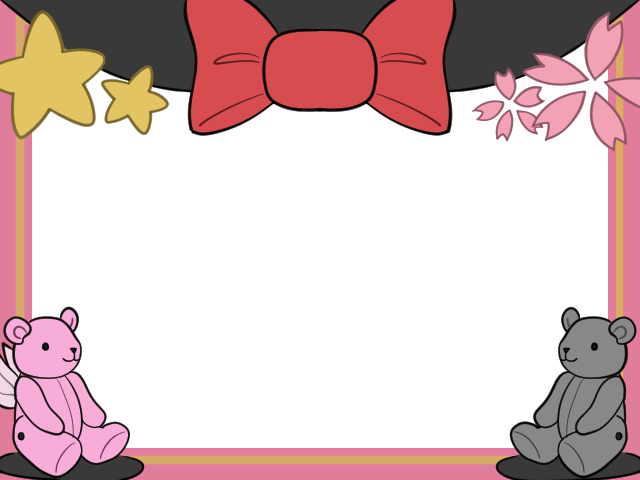
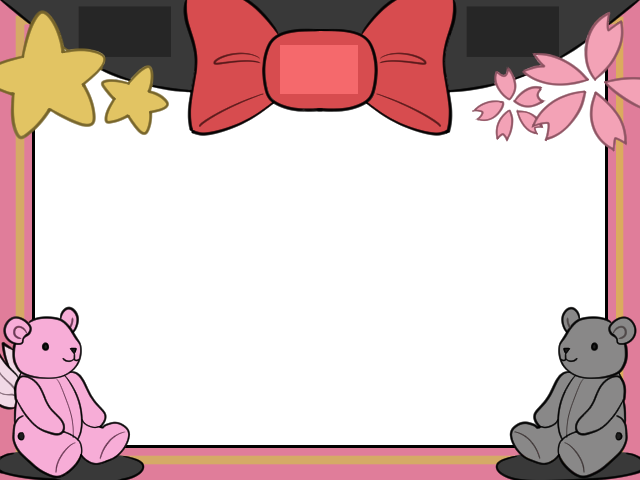
Mostly aesthetic changes for Play scene

diff --git a/src/scenes/Play.js b/src/scenes/Play.js
@@ -5,30 +5,31 @@ class Play extends Phaser.Scene{
     }
 
     preload() {
-        this.load.image('starfield', 'assets/starfield.png');
-        this.load.image('ship', 'assets/spaceship.png');
+        this.load.image('Watery', 'assets/Watery.png');
         this.load.image('rocket', 'assets/rocket.png');
         this.load.spritesheet('explosion', 'assets/explosion.png', {frameWidth:64, frameHeight:32,
             startFrame:0, endFrame:9});
         this.load.image('foregroundUI', 'assets/frame.png');
+        this.load.image('BG1', 'assets/BG_Layer1.png');
+        this.load.image('BG2', 'assets/BG_Layer2.png');
+        this.load.image('KingPengy', 'assets/playground.png');
     }
 
     create() {
-        // Starfield BG
-        this.starfield = this.add.tileSprite(0,0,640,480, 'starfield').setOrigin(0,0);
+        // Parallax BG Layers
+        this.trees = this.add.tileSprite(0,0,640,480, 'BG1').setOrigin(0,0);
+        this.kingPengy = this.add.tileSprite(0,0,640,480, 'KingPengy').setOrigin(0,0);
+        this.foreground = this.add.tileSprite(0,0,640,480, 'BG2').setOrigin(0,0);
 
         //Rocket + Ships
         this.p1Rocket = new Rocket(this, game.config.width/2,
             game.config.height - borderUISize - borderPadding, 'rocket').setOrigin(0.5, 0);
-        this.ship1 = new Ship(this, 200, 160, 'ship', 0, 30).setOrigin(0, 0);
+        this.ship1 = new Card(this, 200, 160, 'Watery', 0, 30).setOrigin(0, 0);
             this.ship1.setScale(0.9);
-        this.ship2 = new Ship(this, 300, 210, 'ship', 0, 20).setOrigin(0, 0);
+        this.ship2 = new Card(this, 300, 210, 'Watery', 0, 20).setOrigin(0, 0);
             this.ship2.setScale(0.9);
-        this.ship3 = new Ship(this, 400, 250, 'ship', 0, 10).setOrigin(0, 0);
+        this.ship3 = new Card(this, 400, 250, 'Watery', 0, 10).setOrigin(0, 0);
             this.ship3.setScale(0.9);
-
-        this.fancyship = new NewShip(this, 300, 160, 'ship', 0, 50).setOrigin(0, 0);
-            this.fancyship.setScale(0.9);
 
         let border = this.add.image(0, 0, 'foregroundUI').setOrigin(0,0);
 
@@ -73,7 +74,9 @@ class Play extends Phaser.Scene{
     }
 
     update() {
-        this.starfield.tilePositionX -= 4;
+        this.foreground.tilePositionX -= 2.5;
+        this.trees.tilePositionX -= 0.25;
+        this.kingPengy.tilePositionX -= 0.5;
 
         // check key input for restart
         if (this.gameOver && Phaser.Input.Keyboard.JustDown(keyR)) {
@@ -88,7 +91,6 @@ class Play extends Phaser.Scene{
             this.ship1.update();
             this.ship2.update();
             this.ship3.update();
-            this.fancyship.update();
         }
 
         // Checks for collisions

diff --git a/index.html b/index.html
@@ -6,7 +6,7 @@
     <meta name="viewport" content="width=device-width, initial-scale=1.0">
     <title>Rocket Patrol Remake + Mods</title>
     <script src="lib/phaser.js"> </script>
-    <script src="src/prefabs/Ship.js"> </script>
+    <script src="src/prefabs/Card.js"> </script>
     <script src="src/prefabs/NewShip.js"> </script>
     <script src="src/prefabs/Rocket.js"> </script>
     <script src="src/scenes/Menu.js"> </script>

diff --git a/src/prefabs/Card.js b/src/prefabs/Card.js
@@ -1,4 +1,4 @@
-class Ship extends Phaser.GameObjects.Sprite {
+class Card extends Phaser.GameObjects.Sprite {
     constructor(scene, x, y, texture, frame, pointValue) {
         super(scene, x, y, texture, frame);
         scene.add.existing(this);
